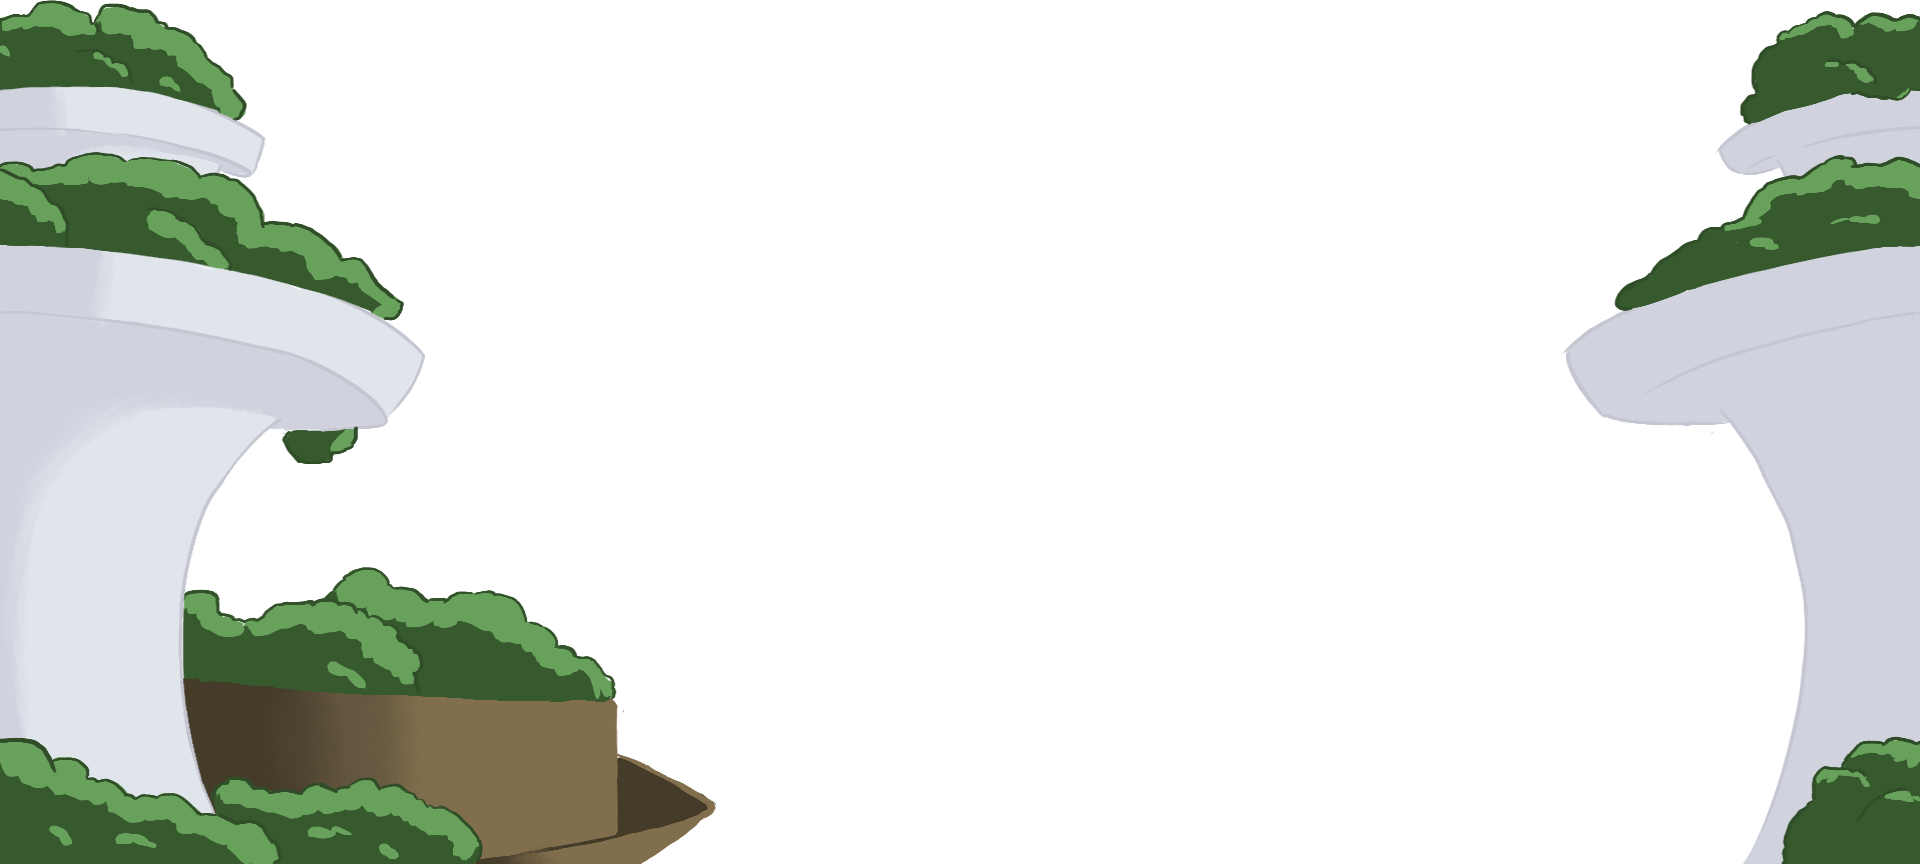
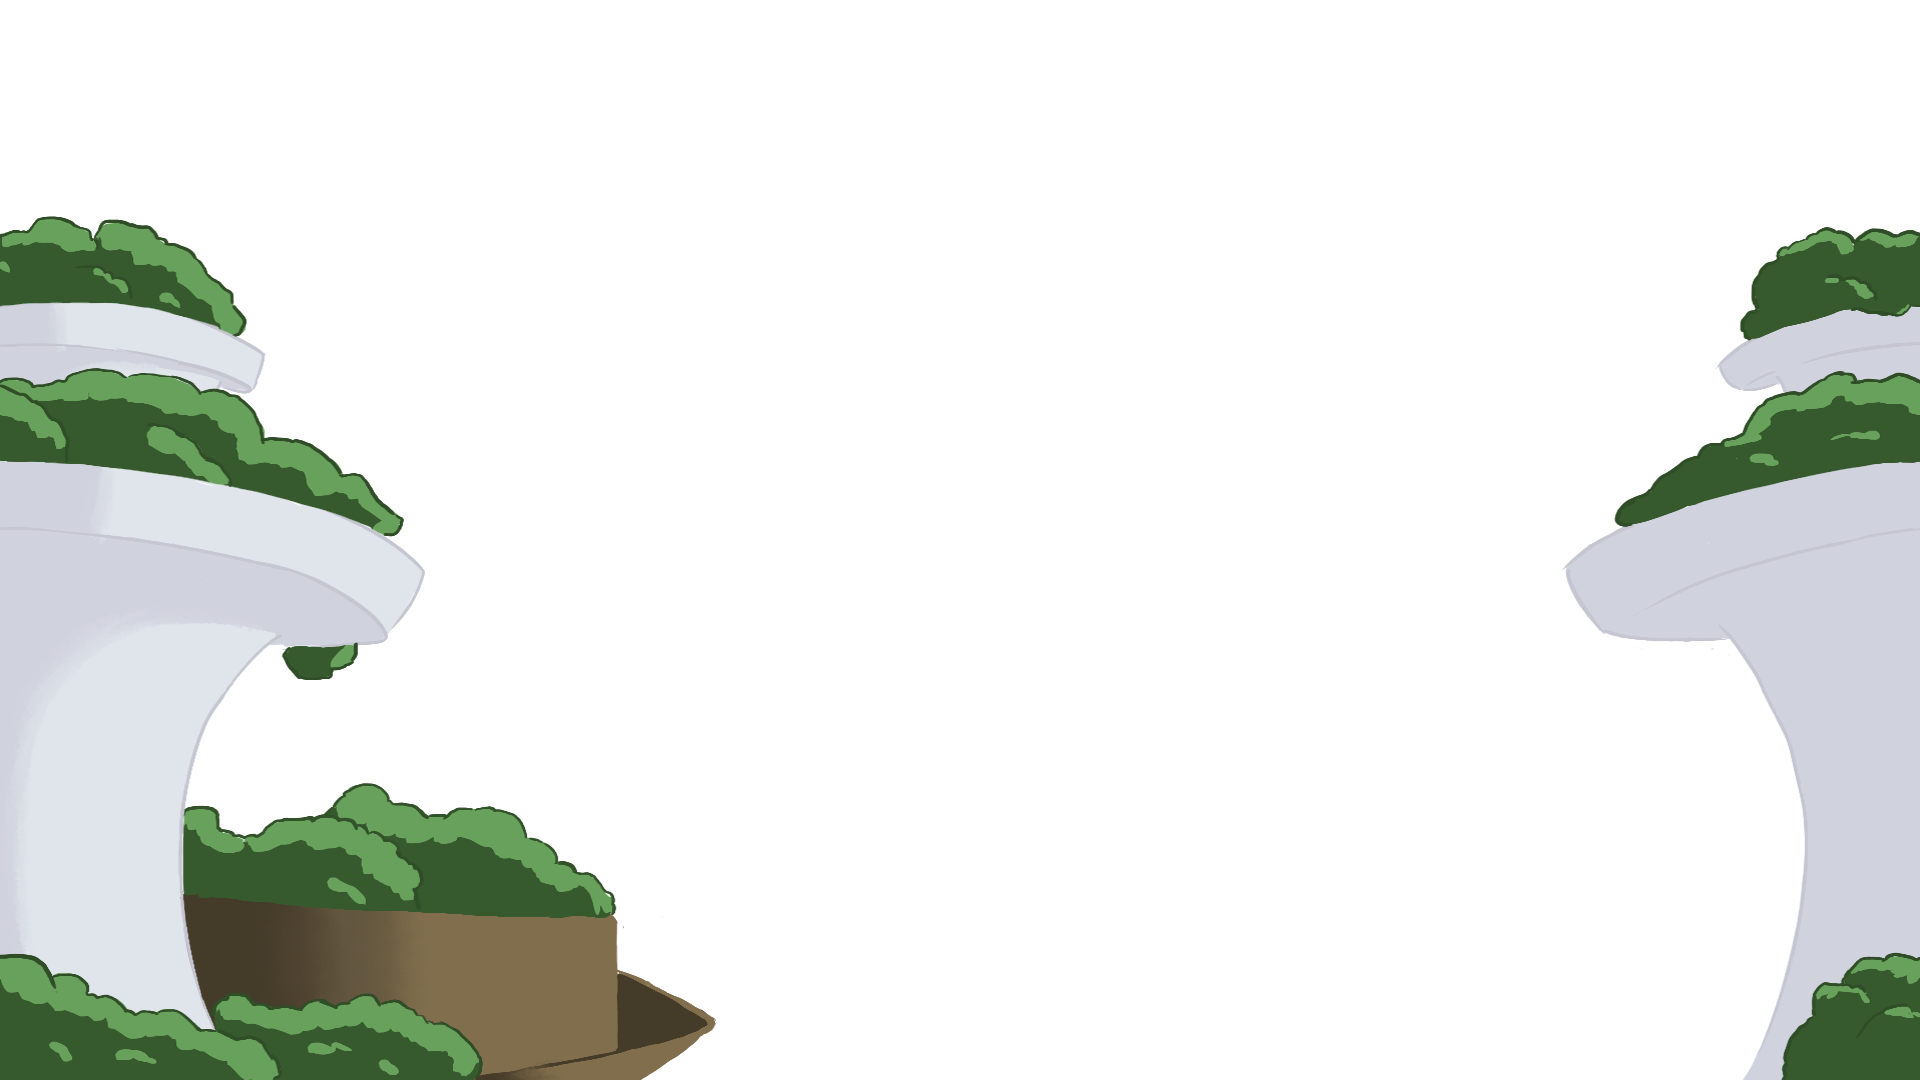
change background

diff --git a/src/LightEngine/Scenes/AnimationScene.cpp b/src/LightEngine/Scenes/AnimationScene.cpp
@@ -20,18 +20,21 @@
 
 void AnimationScene::onInitialize()
 {
-	Background* background1 = createBackground();
-	background1->setTexture("bg_sky");
-	background1->setSpeed(1);
+	Background* background_sky = createBackground();
+	background_sky->setTexture("bg_sky");
+	background_sky->setSpeed(1);
 
+	Background* background3 = createBackground();
+	background3->setTexture("bg_layer3");
+	background3->setSpeed(3);
 
 	Background* background2 = createBackground();
 	background2->setTexture("bg_layer2");
 	background2->setSpeed(2);
 
-	Background* background3 = createBackground();
-	background3->setTexture("bg_layer1");
-	background3->setSpeed(3);
+	Background* background1 = createBackground();
+	background1->setTexture("bg_layer1");
+	background1->setSpeed(3);
 
 	player = createEntity<PlayerEntity>();
 	player->setPosition(0, 650);
